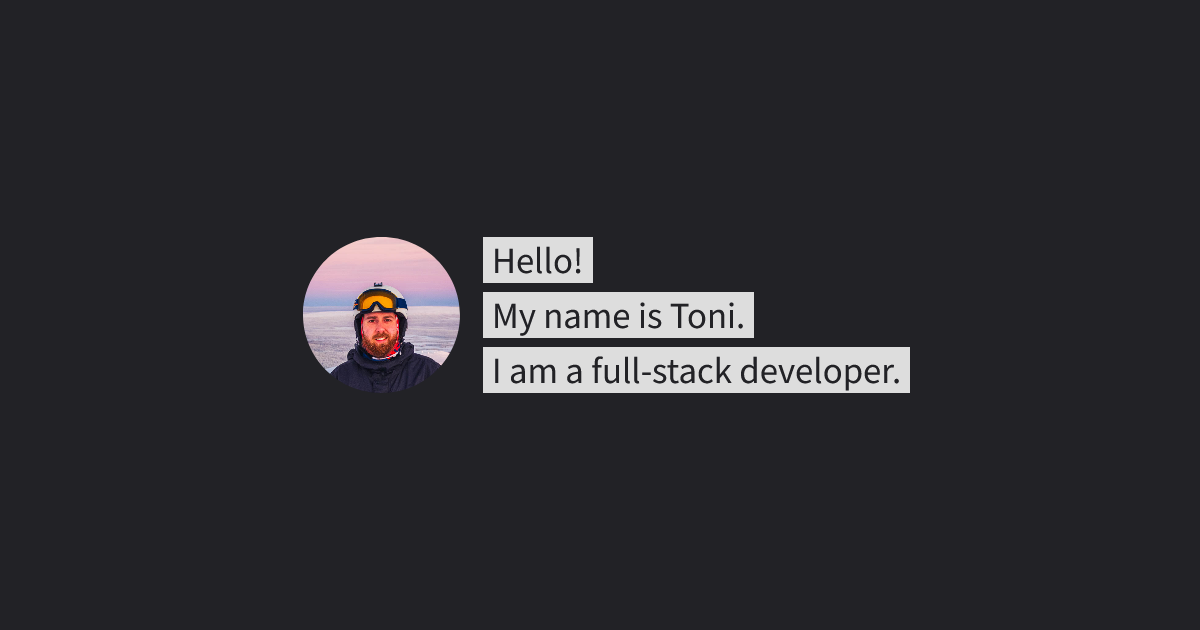
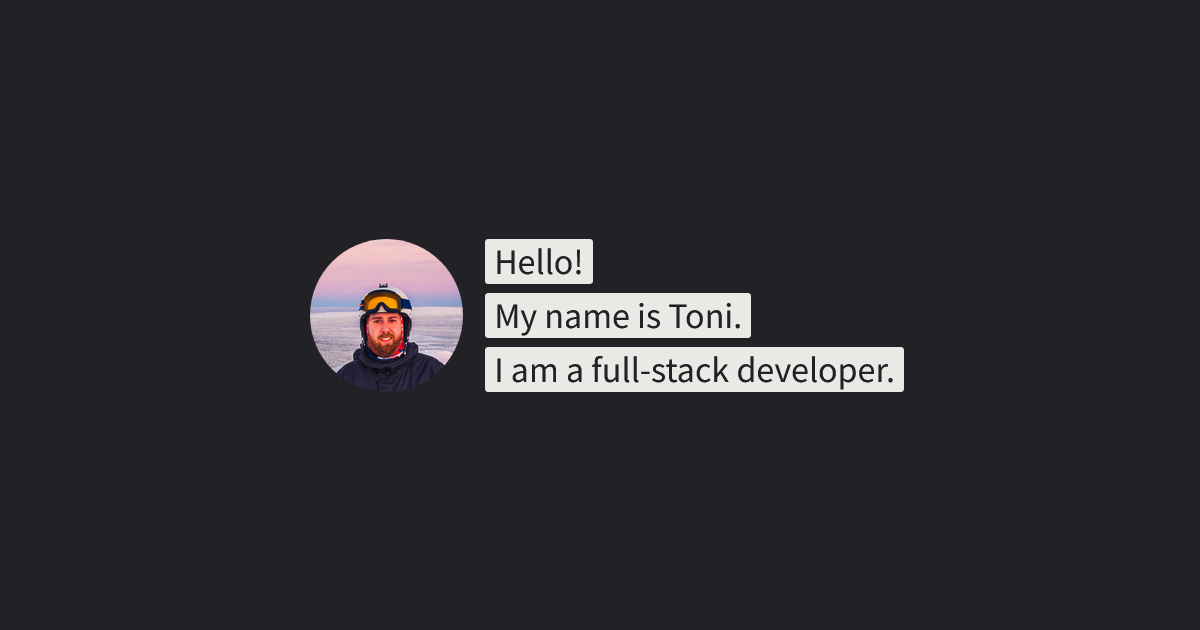
Deploying to gh-pages from  @ 121340e436297466b2ac6641ddac250fec6cbe3b 🚀

Changed region(s): [[0.2467, 0.3619, 0.6167, 0.6032], [0.4008, 0.5429, 0.7708, 0.6333], [0.4008, 0.3619, 0.4933, 0.4524]]

diff --git a/404.html b/404.html
@@ -7,7 +7,7 @@
     :root {
       --blue: #88f;
       --black: #222226;
-      --white: #ddd;
+      --white: #EBE9E5;
       --highlight-size: 1.25em;
     }
 
@@ -89,6 +89,7 @@
       border-radius: 50%;
       height: 4.25em;
       margin: 0.125em 0.5em;
+      width: auto;
     }
 
     .intro-container {
@@ -100,6 +101,7 @@
 
     .intro-row {
       background: var(--white);
+      border-radius: 0.08333em;
       color: var(--black);
       line-height: 1.25em;
       margin: 0.125em;
@@ -135,7 +137,7 @@
   </header>
   <main class="flex-1">
     <div class="highlight">
-      <img alt="" aria-hidden="true" class="profile" src="profile-512px.jpg">
+      <img alt="" aria-hidden="true" class="profile" src="profile-512px.jpg" height="512" width="512">
       <div class="intro-container">
         <span class="intro-row">Hello!</span>
         <span class="intro-row">My name is Toni.</span>

diff --git a/index.html b/index.html
@@ -7,7 +7,7 @@
     :root {
       --blue: #88f;
       --black: #222226;
-      --white: #ddd;
+      --white: #EBE9E5;
       --highlight-size: 1.25em;
     }
 
@@ -89,6 +89,7 @@
       border-radius: 50%;
       height: 4.25em;
       margin: 0.125em 0.5em;
+      width: auto;
     }
 
     .intro-container {
@@ -100,6 +101,7 @@
 
     .intro-row {
       background: var(--white);
+      border-radius: 0.08333em;
       color: var(--black);
       line-height: 1.25em;
       margin: 0.125em;
@@ -135,7 +137,7 @@
   </header>
   <main class="flex-1">
     <div class="highlight">
-      <img alt="" aria-hidden="true" class="profile" src="profile-512px.jpg">
+      <img alt="" aria-hidden="true" class="profile" src="profile-512px.jpg" height="512" width="512">
       <div class="intro-container">
         <span class="intro-row">Hello!</span>
         <span class="intro-row">My name is Toni.</span>
